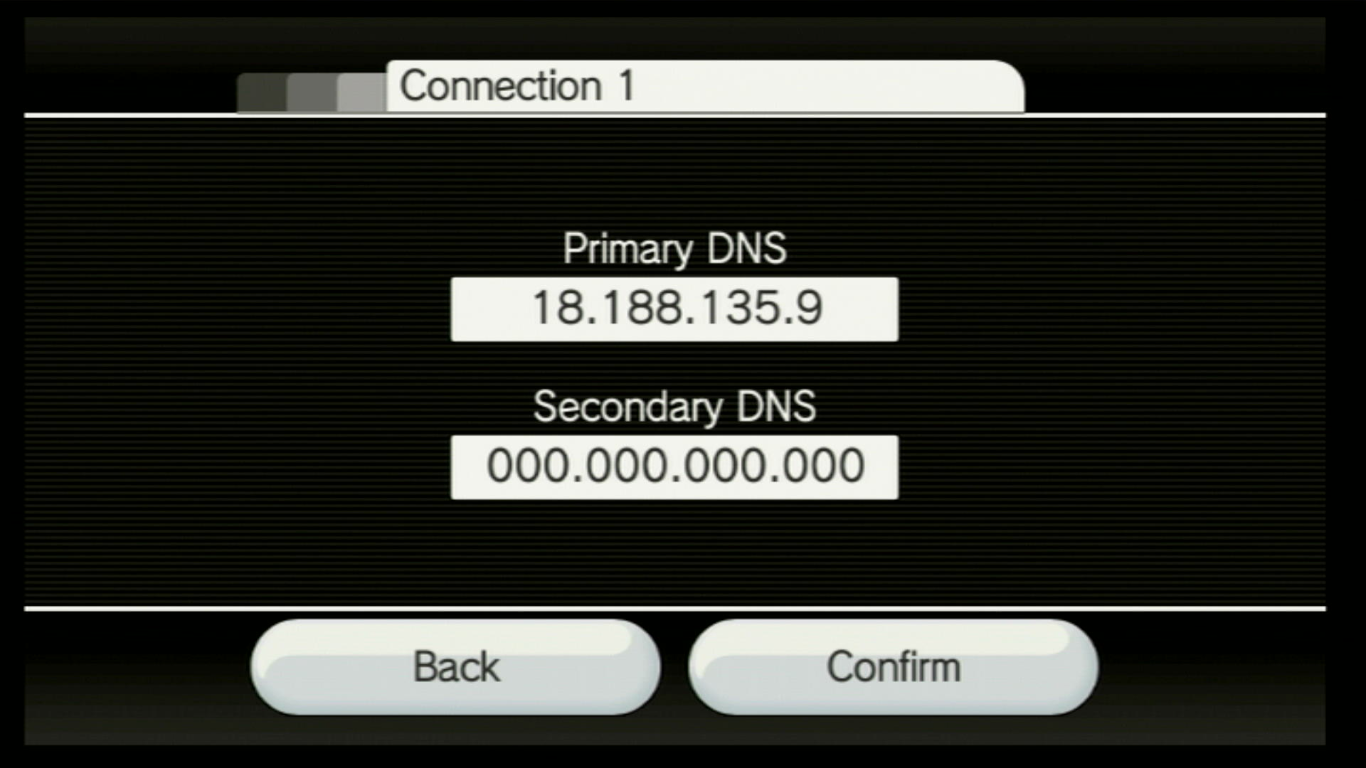
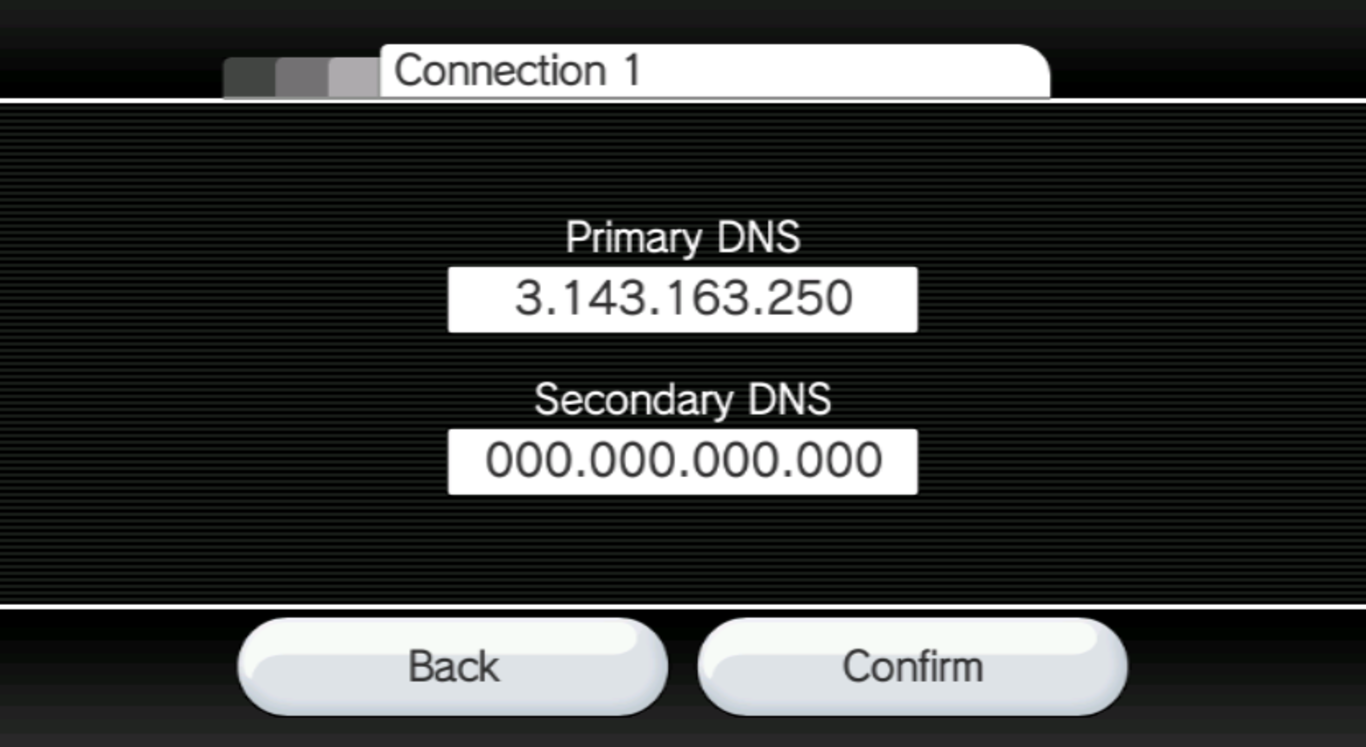
New str2hax ip (#104)

Changed region(s): [[0.0, 0.0, 1.0, 1.0]]

diff --git a/_pages/en_US/str2hax.md b/_pages/en_US/str2hax.md
@@ -47,7 +47,7 @@ This exploit requires you to set your DNS in order to connect to a server that c
 
     ![](/images/riiconnect24/Internet_7.png)
 
-1. Set the Primary DNS to `18.188.135.9`.
+1. Set the Primary DNS to `3.143.163.250`.
 
     ![](/images/exploits/str2hax/dns.png)
 
